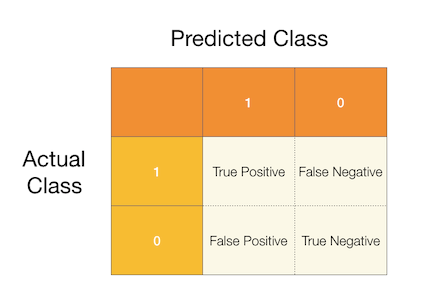
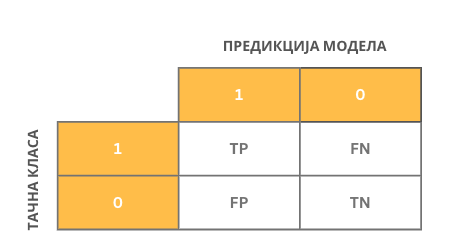
Popravke u lekciji Kako ocenjujemo model klasifikacije

diff --git a/_sources/07_Klasifikacija/072_Kako ocenjujemo model klasifikacije.rst b/_sources/07_Klasifikacija/072_Kako ocenjujemo model klasifikacije.rst
@@ -4,23 +4,16 @@
 .. |open| image:: ../../_images/algk2.png
             :width: 100px
 
-.. |ocmodf1| image:: ../../_images/ocmodf1.png
-            :width: 180px
-
-
-.. |ocmodf2| image:: ../../_images/ocmodf2.png
-            :width: 120px
-
 .. infonote::
 
  Сада када знамо шта је то класификација, природно је запитати се како оцењујемо колико је добар један модел класификације. У овој секцији ћемо 
  научити које мере се користе за оцењивање и како се израчунавају. Оцењивање класификације увек вршимо на скупу за тестирање. 
 
 Оцењивање успешности модела машинског учења увек вршимо користећи **скуп за тестирање**. Подсетимо се да је то део скупа података којим располажемо и 
-да у њему за сваку инстанцу знамо тачнe вредности атрибута и тачну вредност циљне променљиве. Нека даље X1 означава вредности атрибута прве 
-инстанце и y1 вредност њене циљне променљиве. Да бисмо оценили како се понаша модел приликом класификације ове инстанце, можемо да му задамо 
-атрибуте X1,  забележимо резултат који израчуна, обележимо га са y1~, а затим га упоредимо са тачном вредношћу y1. Овај поступак можемо поновити 
-за сваку инстанцу у скупу за тестирање X1, X2, X3, X4, ,... колико год да их има.  Како би оцена класификатора била објективна, важно је да 
+да у њему за сваку инстанцу знамо тачнe вредности атрибута и тачну вредност циљне променљиве. Нека даље :math:`X_1` означава вредности атрибута прве 
+инстанце и :math:`y_1` вредност њене циљне променљиве. Да бисмо оценили како се понаша модел приликом класификације ове инстанце, можемо да му задамо 
+атрибуте :math:`X_1`,  забележимо резултат који израчуна, обележимо га са :math:`\tilde{y_1}`, а затим га упоредимо са тачном вредношћу :math:`y_1`. Овај поступак можемо поновити 
+за сваку инстанцу у скупу за тестирање :math:`X_1`, :math:`X_2`, :math:`X_3`, :math:`X_4`, ,... колико год да их има.  Како би оцена класификатора била објективна, важно је да 
 никада не варамо и преклапамо скуп за тренирање и скуп за тестирање модела. 
 
 У случају бинарне класификације, тачне вредности циљне променљиве и израчунате вредности модела (предикције) су заправо или 0 или 1 па се оцењивање 
@@ -76,9 +69,9 @@
 тачно позитивне и тачно негативне инстанце па се ова мера израчунава као количник збира тачно позизивних и тачно негативних инстанци и укупног 
 броја инстанци у скупу за тестирање. Њу израчунавамо по формули: 
 
-|ocmodf1| 
+.. math::
 
-**($$Acc = \frac{TP + TN}{TP + FN + FP + TN}$$)**
+    Acc = \frac{TP + TN}{TP + FN + FP + TN}
 
 Тачност је врло корисна мера али у случајевима када су односи броја позитивних и негативних инстанци у скупу за тестирање драстично различити 
 није довољно информативна. Рецимо, може се десити да је 99 инстанци у скупу за тестирање негативно, а само једна инстанца позитивна 
@@ -91,9 +84,9 @@
 позитивно класификованим инстанцама заиста позитивних? Као су позитивно класификоване инстанце и тачно позитивне и лажно позитивне,  њу рачунамо 
 као количник броја тачно позитивних и свих позитивних инстанци. Формула коју користимо је: 
 
-**𝑃 = 𝑇𝑃 / (𝑇𝑃 +𝐹𝑃)** 
+.. math::
 
-**($$P = \frac{TP}{TP + FP}$$)**
+    P = \frac{TP}{TP + FP}
 
 -------
 
@@ -101,9 +94,11 @@
 инстанци заиста класификовано као позитивно? Како су све позитивне инстанце и тачно позитивне и лажно негативне, ову меру рачунамо као количник 
 тачно позитивних инстанци и збира тачно позитивних и лажно негативних инстанци. Формула коју користимо је: 
 
-**𝑅= 𝑇𝑃 / (𝑇𝑃 + 𝐹𝑁)**
+.. math::
 
-**($$R = \frac{TP}{TP + FN}$$)**
+    R = \frac{TP}{TP + FN}
+
+ -------   
 
 .. figure:: ../../_images/ocmod3.png
     :width: 600
@@ -111,25 +106,23 @@
 
 *Разлика између прецизности и одзива*
 
-**(ТОDO: усагласити распоред ћелија)**
-
 -------
 
 **F1 мера** нам омогућава да узмемо у обзир и прецизност и одзив класификатора - рачунамо је као  хармонијску средину ове две вредности по формули: 
 
-|ocmodf2| 
-
-**($$F_1 = 2\frac{PR}{P+R}$$()**
+.. math::
+    
+    F_1 = 2\frac{P\cdot R}{P + R}
 
 -------
 
-Разлог за коришћење F1 мере је тај што појединчно прецизност и одзив нису довољно информативне. На пример, ако све инстанце прогласимо позитивним, 
+Разлог за коришћење F\ :sub:`1` мере је тај што појединчно прецизност и одзив нису довољно информативне. На пример, ако све инстанце прогласимо позитивним, 
 одзив ће имати вредност један. Слично, ако све инстанце прогласимо негативним, прецизност ће имати вредност један. У оба случаја имамо екстремна 
 понашања класификатора који у пракси није употребљив. Зато је корисно, у општем случају, узети у обзир обе вредности.  
 
-На основу матрице кофузије коју смо креирали у примеру можемо да израчунамо све четири поменуте мере и стекнемо представу колико добро ради наш 
+На основу матрице конфузије коју смо креирали у примеру можемо да израчунамо све четири поменуте мере и стекнемо представу колико добро ради наш 
 класификатор. У пракси је корисно да се ове мере израчунају и за сваку класу појединачно како би испратили потенцијалну пристраност модела (о 
-томе ћемо још говорити у наставку). Све израчунате мере су део такозваног сумарног  класификационог извештаја (engl. *classification report*). 
+томе ћемо још говорити у наставку). Све израчунате мере су део такозваног сумарног  **класификационог извештаја** (engl. *classification report*). 
 
 .. figure:: ../../_images/ocmod4.png
     :width: 500
